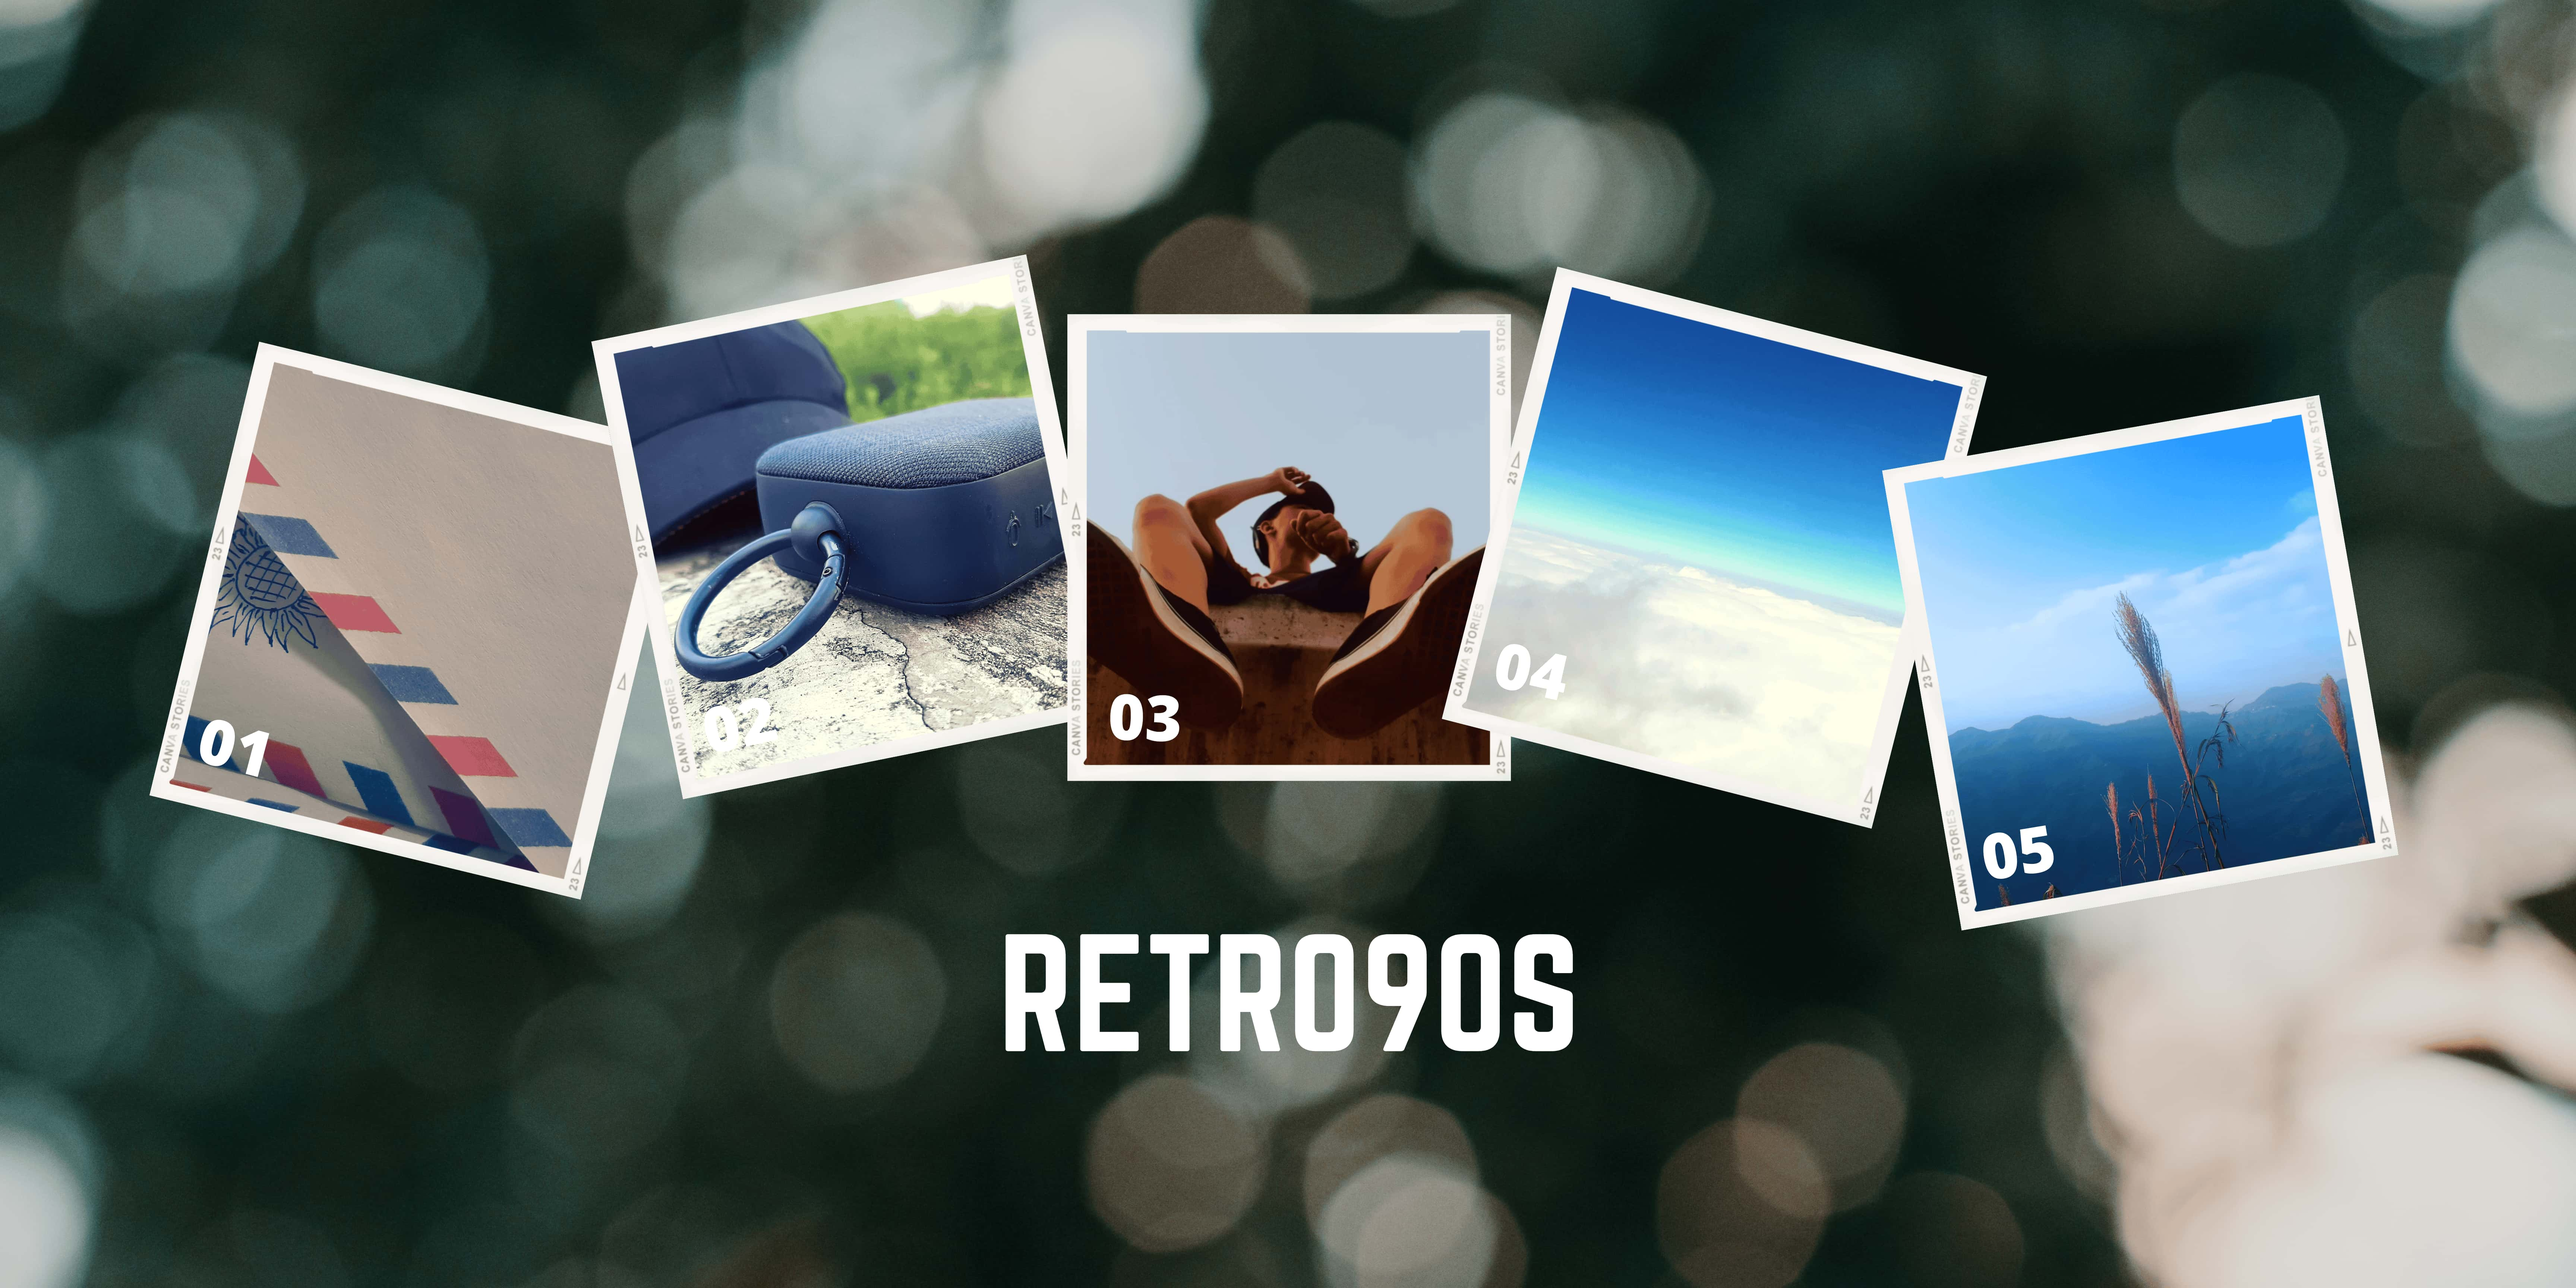
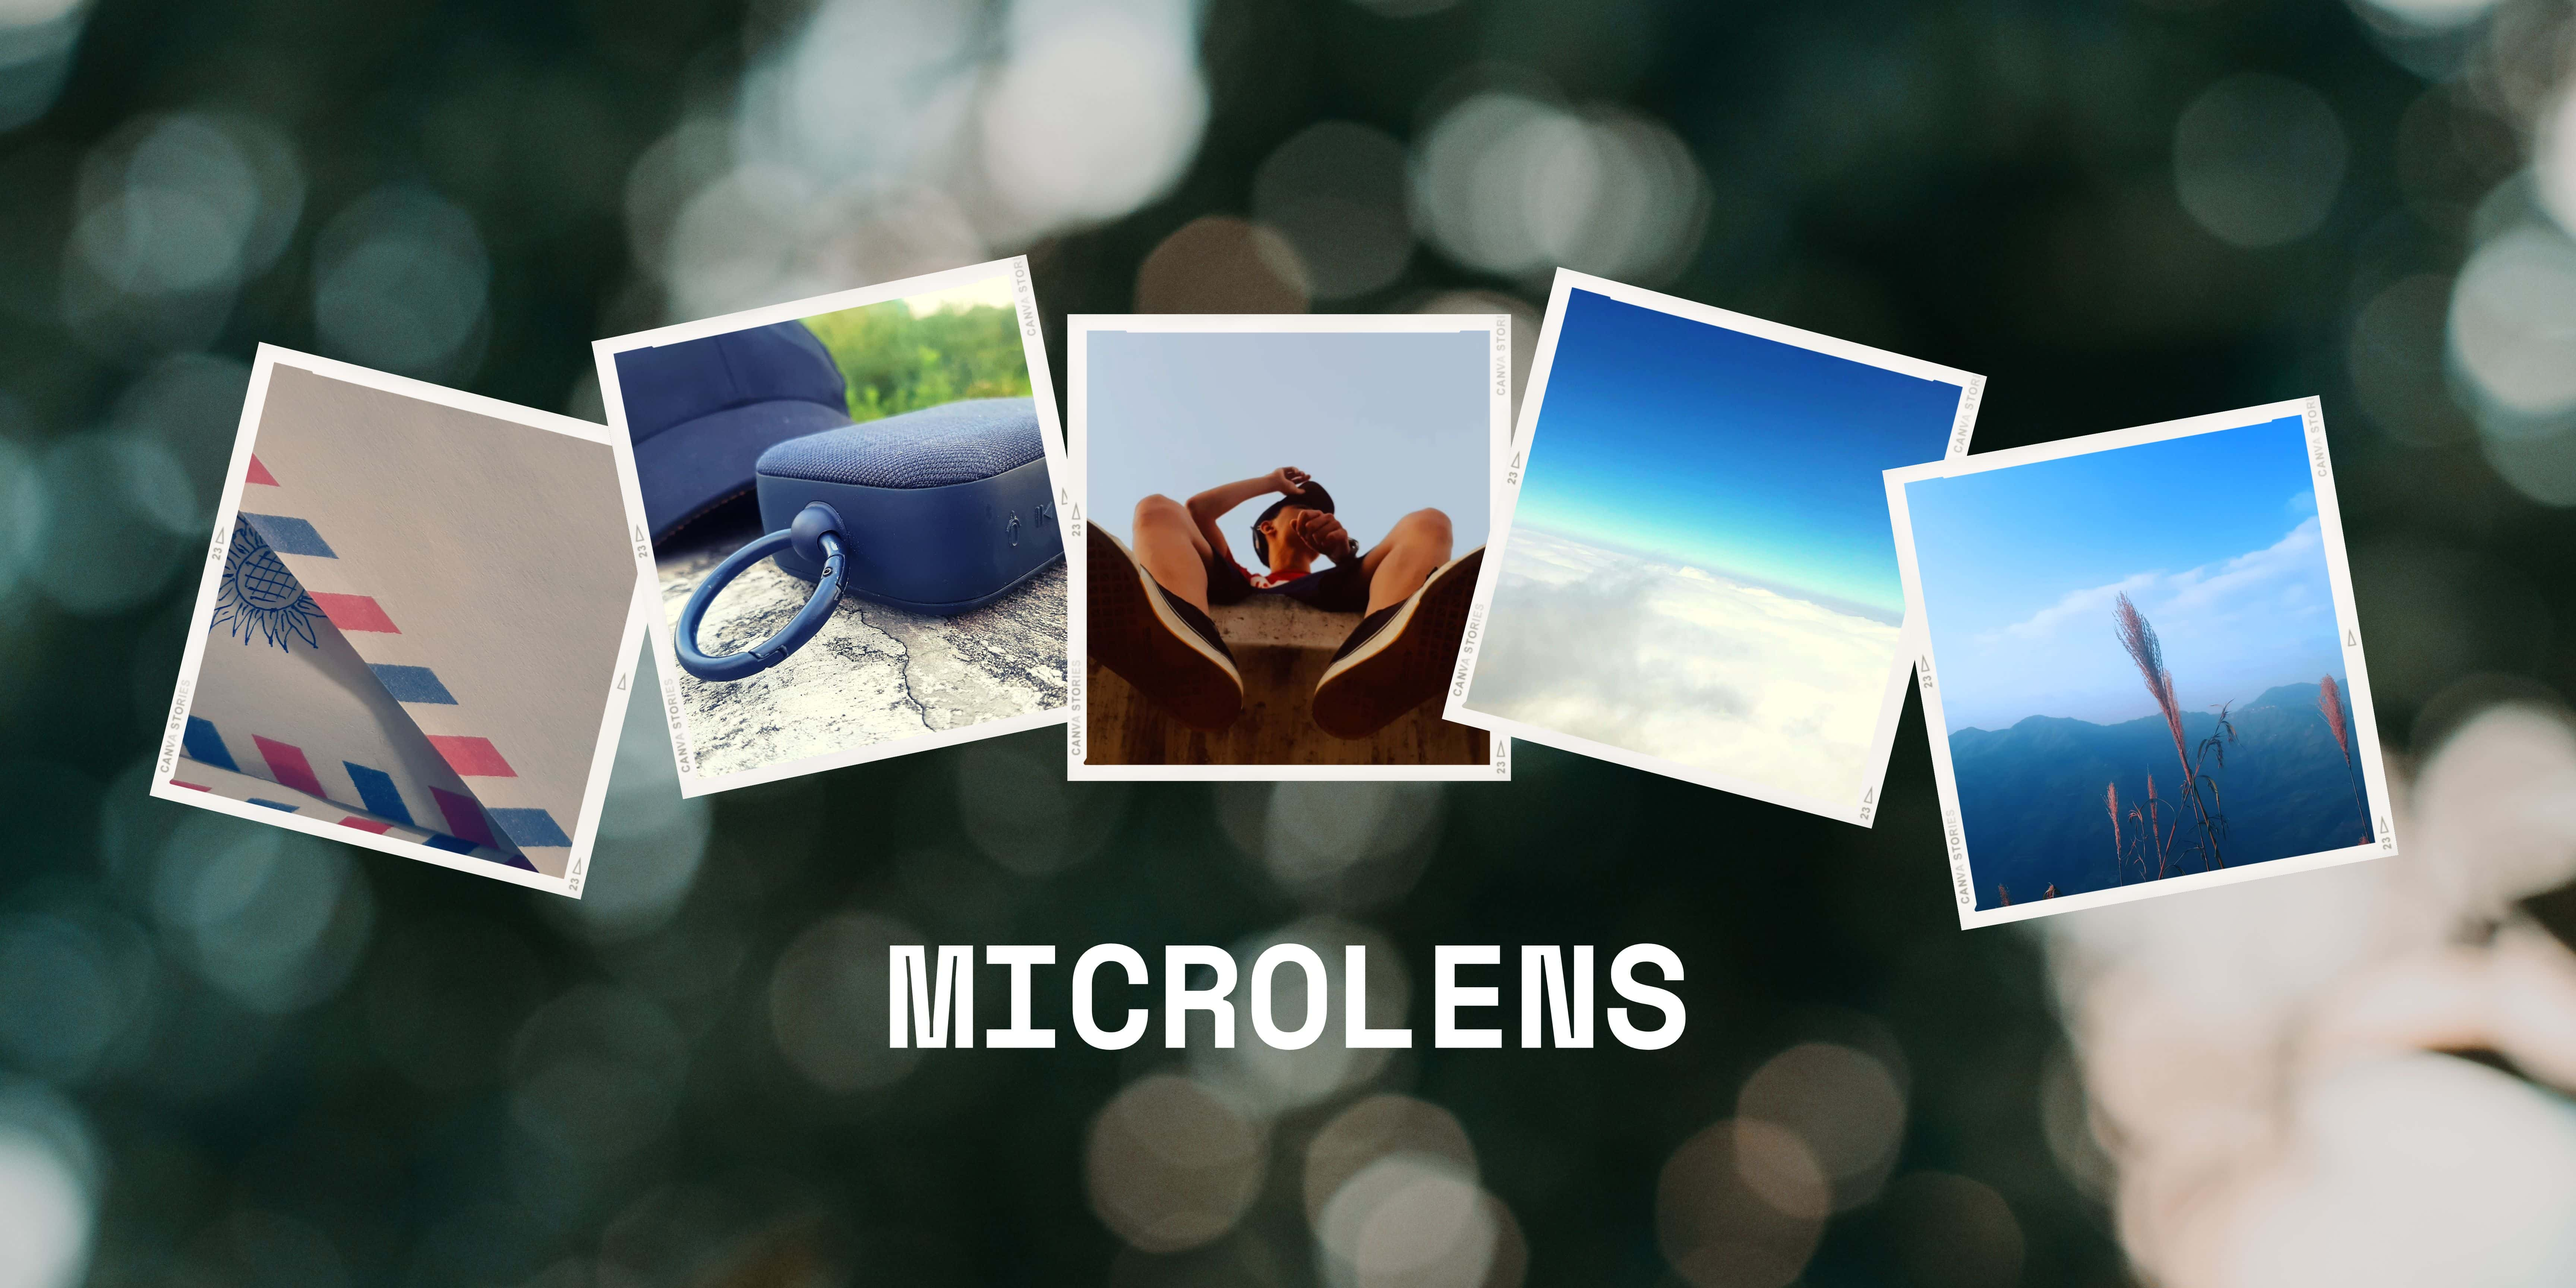
Microlens

diff --git a/README.md b/README.md
@@ -1,2 +1,2 @@
 # .github
-Community Health Files for the [@Retro90s](https://github.com/Retro90s) organization on GitHub
+Community Health Files for the [@Microlens](https://github.com/microlens) organization on GitHub
